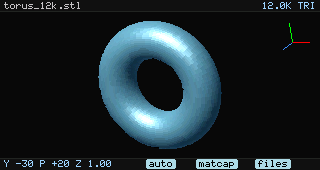
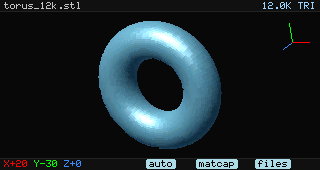
Show X/Y/Z rotation in the bottom bar with axis colors
Replace the yaw/pitch/zoom readout with X pitch, Y yaw and Z roll drawn
in the same red/green/blue as the orientation gizmo. Also fix the Camera
aggregate initializers, which were passing zoom into roll.

Refresh the documentation screenshots, including the exit prompt.

Changed region(s): [[0.0, 0.9412, 0.2812, 1.0], [0.2812, 0.9412, 0.3438, 1.0]]

diff --git a/src/ui.cpp b/src/ui.cpp
@@ -194,12 +194,20 @@ void drawUi(Canvas& canvas, const UiState& state) {
     canvas.fillRect(0, hint_y, w, kHintHeight, Theme::kBarBackground);
     canvas.fillRect(0, hint_y, w, 1, Theme::kBarBorder);
 
-    char view[80];
-    std::snprintf(view, sizeof(view), "Y %+d P %+d Z %.2f",
-                  static_cast<int>(state.camera.yaw_deg),
-                  static_cast<int>(state.camera.pitch_deg),
-                  state.camera.zoom);
-    canvas.text(kTextLeft, hint_y + kTextTop, view, Theme::kText);
+    int axis_x = kTextLeft;
+    const int axis_y = hint_y + kTextTop;
+    auto draw_axis = [&](char label, int value, uint16_t color) {
+        char text[16];
+        std::snprintf(text, sizeof(text), "%c%+d", label, value);
+        canvas.text(axis_x, axis_y, text, color);
+        axis_x += canvas.textWidth(text) + FONT_6X8_WIDTH;
+    };
+    draw_axis('X', static_cast<int>(std::lround(state.camera.pitch_deg)),
+              0xF800);
+    draw_axis('Y', static_cast<int>(std::lround(state.camera.yaw_deg)),
+              0x07E0);
+    draw_axis('Z', static_cast<int>(std::lround(state.camera.roll_deg)),
+              0x3C7F);
 
     const int pill_h = 10;
     const int pill_y = hint_y + (kHintHeight - pill_h) / 2;

diff --git a/src/main.cpp b/src/main.cpp
@@ -424,7 +424,7 @@ int runInteractive(const Options& options) {
     Canvas canvas(framebuffer.width(), framebuffer.height());
     Renderer renderer;
 
-    Camera camera{options.yaw, options.pitch, options.zoom};
+    Camera camera{options.yaw, options.pitch, 0.0f, options.zoom};
     Camera home_camera = camera;
 
     Mesh mesh;
@@ -875,7 +875,7 @@ int runInteractive(const Options& options) {
 int runBenchmark(const Options& options, const Mesh& mesh) {
     Canvas canvas(kCanvasWidth, kCanvasHeight);
     Renderer renderer;
-    Camera camera{options.yaw, options.pitch, options.zoom};
+    Camera camera{options.yaw, options.pitch, 0.0f, options.zoom};
     UiState ui;
     ui.mesh = &mesh;
     ui.camera = camera;
@@ -906,7 +906,7 @@ int runBenchmark(const Options& options, const Mesh& mesh) {
 int renderScreenshot(const Options& options, Mesh& mesh) {
     Canvas canvas(kCanvasWidth, kCanvasHeight);
     Renderer renderer;
-    Camera camera{options.yaw, options.pitch, options.zoom};
+    Camera camera{options.yaw, options.pitch, 0.0f, options.zoom};
 
     UiState ui;
     ui.mesh = &mesh;
